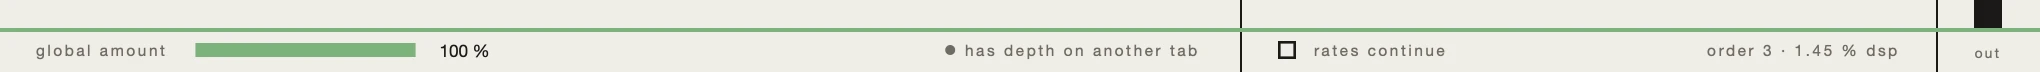
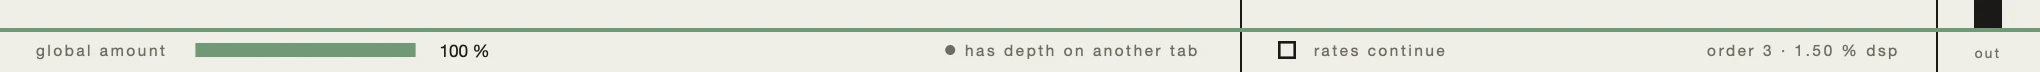
Echo's colour is a sage green, and the tutorial's pictures are drawn again with it

Changed region(s): [[0.0, 0.3889, 1.0, 0.4444], [0.0926, 0.6111, 0.2162, 0.7778], [0.8647, 0.6667, 0.8956, 0.75]]

diff --git a/src/styles/global.css b/src/styles/global.css
@@ -14,7 +14,7 @@
   --black: #1b1a17;
   --blue: #5e8bae;
   --orange: #d4873a;
-  --echo-green: #7cb27b;
+  --echo-sage: #6f9a74;
   --reverb-violet: #967bb2;
 
   /* roles */

diff --git a/src/content/plugins/echo.md b/src/content/plugins/echo.md
@@ -1,7 +1,7 @@
 ---
 name: echo
 summary: "Four echoes that turn through the field as they repeat."
-colour: "#7cb27b"
+colour: "#6f9a74"
 order: 2
 ---
 
